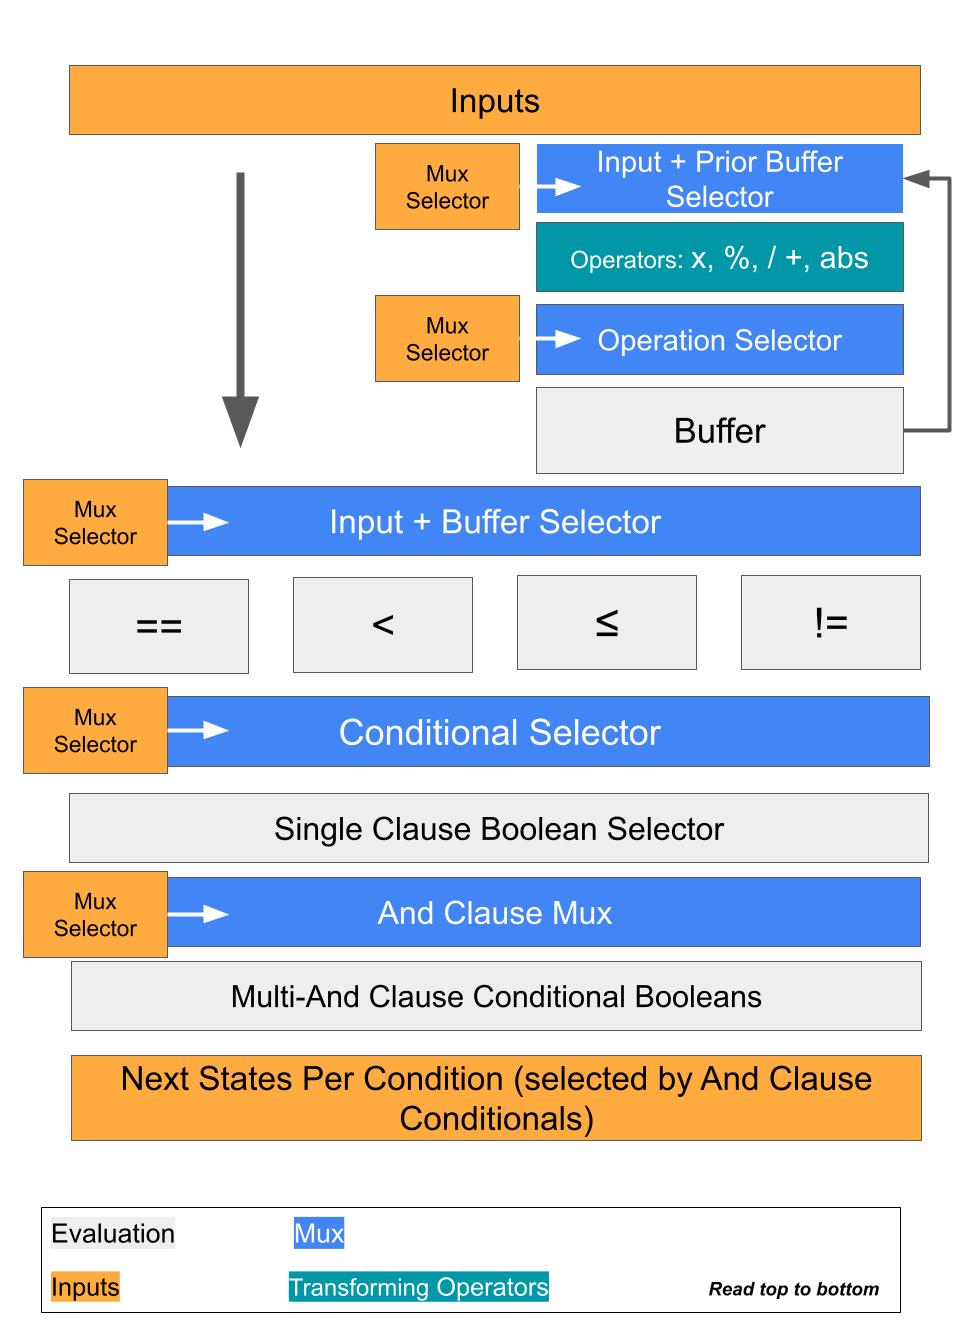
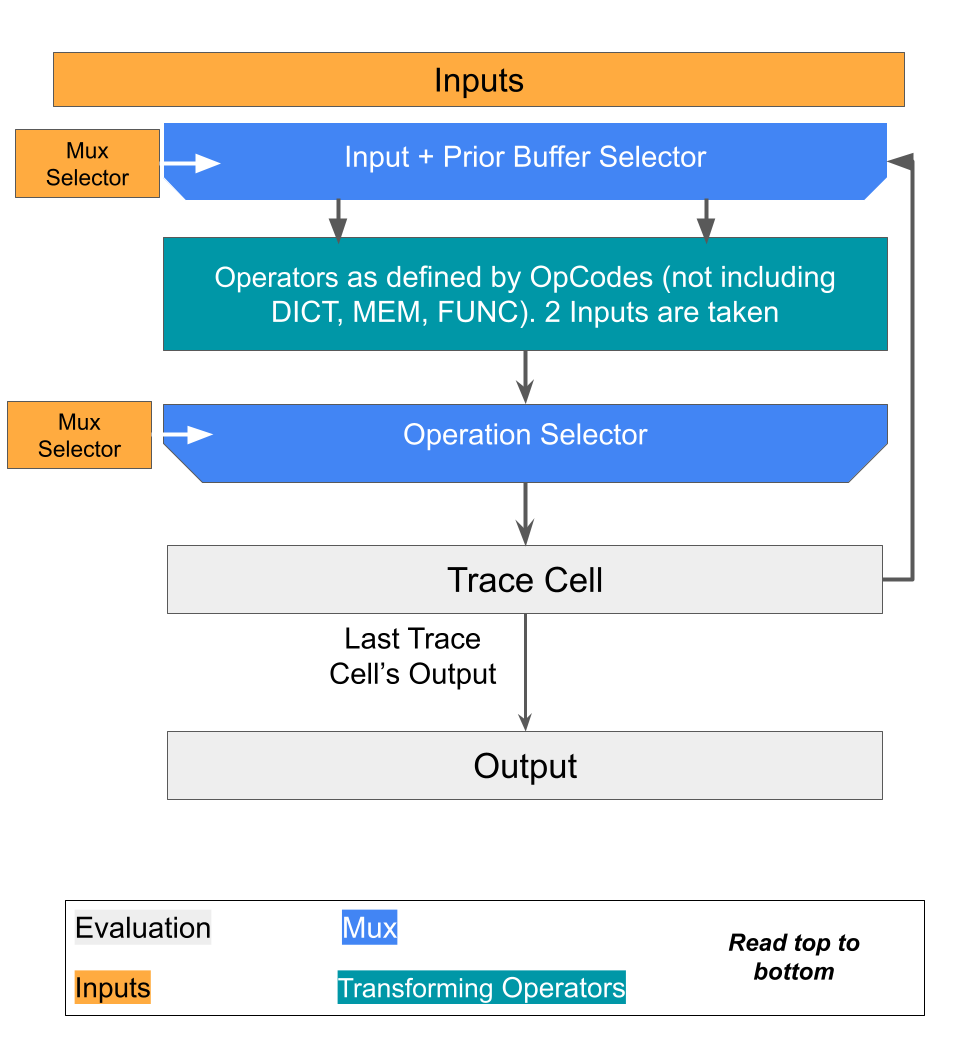
readme

diff --git a/shoshin/circom/README.md b/shoshin/circom/README.md
@@ -12,69 +12,33 @@ We need our Circom to verify that an FD emulator ran correctly. We do this by sp
 
 ### The specifics
 
-Below we outline the inputs to the `FD Emulator` circuit.
+Below we outline the inputs to the `FD Emulator` circuit. The outputs can be broken down into 2 categories: `inputs` and `trace` selectors. We can think of traces as the circuit equivalent of trace cells in Cairo. Essentially, they are write once values that store intermediary computations. The output of the circuit is the last trace cell's output. Because we are working with circuits, we have a **constant** number of trace cells and inputs.
+
+Unused inputs can be set to 0. Unused trace cells should have their `type` (OpCode) set to 0 which signifies that the output should be the first input. The inputs to the unused trace cells should be the output of the prior trace cell.
+Inputs to trace cells are based off of indexing. Setting an input selector to be in the range of [0, NUMB_INPUTS) signifies that the trace cell's input is selecting from the inputs to the circuit. Setting a trace cell's input selector to index i in [NUMB_INPUTS, NUMB_INPUTS + NUMB_TRACE_CELLS) signifies setting the input selector to the output of trace cell i minus NUMB_INPUTS.
+
+> Note that trace cells can only use outputs of trace cells with smaller indices. I.e. trace cell 10 can only use the outputs from trace cells 0 to 9.
+
+So, for this example, we have 8 inputs and 5 trace cells.
 
 ```typescript
 {
-  /**
-   * The value of the next state associated with each conditional and the default
-   * The first NumberOfConditional values are associated with conditionals. The last one is a default
-   */
-  next_state: [Number of Conditionals + 1], // length of Number of Conditionals + 1
-  /**
-  * The input to the circuit
-  */
-  inputs: [Input Size].
-
-
-  /**
-   * Select how to `and` the conditionals. Essentially, every single clause conditional can be
-   * transformed into a multi clause conditional by selecting which get `anded` together. The selection
-   * index ranges from [0, Number of Conditional + 2) where setting
-   * the selection to NumberOfConditionals is hardwired to `true` and NumberOfConditionals+1 is hardwired to `false`
-   *
-   * The and conditionals are the ones that are finally associated with the output `next_state`
-   */
-  and_selectors: [Number of Conditionals][Max Number of And Clauses],
-
-	/**
-   * Selects which conditional to use for each conditional:
-   * [0, 0] (0) represent a == b
-   * [1, 0] (1) represents a < b
-   * [0, 1] (2) represents a <= b
-   * [1, 1] (3) represents a != b
-   */
-  conditional_mux_sel: [Number of Conditionals][2],
-
-  /**
-   * for each conditional, a ?= b, select `a` and `b`. Selection values range
-   * from Number of Conditionals + Number of Buffers, where i in [0, Number of Conditionals) selects the ith input
-   * and i in [Number of Conditionals, Number of Conditionals + Number of Buffers)
-   * selects the i - Number of Conditionals buffer.
-   */
-  conditional_inputs_mux_sel[Number of Conditionals][2],
-
-  /**
-   * Each buffer can operate on at most 3 elements. This selects the inputs for each buffer.
-   * For buffer i in [0, Buffer Size), the selector takes Input Size + i possible values.
-   * The first Input Size represent selecting from an input.
-   * For j in [Input Size, Input Size + i),
-   * j represents selecting the output of buffer `j - Input Size`
-   */
-  buffer_mux_sel: [Buffer Size][3],
-
-  /**
-  * Each buffer can take input, a, b, and c.
-  *
-  * The different types associated with the buffers are
-  *
-  * [0, 0] => a * b + c
-  * [1, 0] => |a|
-  * [0, 1] => a \ b (integer division)
-  * [1, 1] => a % b
-  */
-  buffer_type_sel: [Buffer Size][2],
-
+  inputs: [-10, 20, 30, 40, 50, 60, 0, 0],
+  trace_inp_selectors: [
+    [0, 1],
+    [2, 0],
+    [8, 9],
+    [10, 0],
+    [11, 0],
+    [12, 0],
+  ],
+  trace_type_selectors: [
+    OpCodes.ABS,
+    OpCodes.DIV,
+    OpCodes.ADD,
+    0,
+    0,
+  ],
 }
 ```
 
@@ -83,129 +47,6 @@ Below we outline the inputs to the `FD Emulator` circuit.
 The following block diagram also gives a high level overview of how the circuit works
 ![imgs/FDBlockDiagram.png](imgs/FDBlockDiagram.png)
 
-### An example of a compiled FD
+### From Directed Acyclic Graph (DAG) Programs to Circom
 
-Say our mental space can be from the following enum,
-
-```
-enum MentalState {
-  MS_IDLE=0,
-  MS_ATTACK=1,
-}
-```
-
-an our intents can be from
-
-```
-enum Intents {
-  INT_NULL=0,
-  INT_ATTACK=1,
-}
-```
-
-and our transition functions are very basic.
-
-For the next mental state we have,
-
-```
-if (stamina >= STAMINA_COST_ATTACK * 2 + 10) return MS_ATTACK;
-else return MS_IDLE;
-```
-
-and our next intent we have
-
-```
-if (current_state == MS_ATTACK) return INT_ATTACK;
-else return INT_NULL;
-```
-
-Now we step through what the Circom input would look like. First, note that we have a "wrapper" Circom module which instantiates the FD Emulator. This will be in a future PR. This wrapper module will ensure that global constants, such as `STAMINA_COST_ATTACK`, mental spaces, and public inputs are passed into the inputs of the FD Emulator properly.
-
-Say that the maximum number of "anded clauses" is 2 and our buffer size is 1. So then, we would have the following FD Emulator Inputs for the next mental state
-
-```typescript
-{
-  next_state: [MS_ATTACK, MS_IDLE],
-
-  inputs: [curr_state, stamina, 2, 10, STAMINA_COST_ATTACK,],
-
-  // We have 1 conditional, then the index following the number of conditionals (1) is true by default
-  // I.e. we are choosing to do: `<conditional 0 output> && true`
-  and_selectors: [[0, 1]],
-
-  conditional_mux_sel: [[0, 1]], // Select a <= b
-
-  conditional_inputs_mux_sel[[5, 1]], // Select <Buffer 1 out> <= stamina
-
-  buffer_type_sel: [[0, 0]], // Quadratic constraint buffer is selected to give use a * b + c
-
-  buffer_mux_sel: [[4, 2, 3]], // Buffer is now STAMINA_COST_ATTACK * 2 + 10
-}
-```
-
-The next intent inputs are similar:
-
-```typescript
-{
-  next_state: [INT_ATTACK, INT_NULL],
-
-  inputs: [curr_state, stamina, MS_ATTACK, 0, STAMINA_COST_ATTACK,], // The 0 is just a dummy value
-
-  // We have 1 conditional, then the index following the number of conditionals (1) is true by default
-  // I.e. we are choosing to do: `<conditional 0 output> && true`
-  and_selectors: [[0, 1]],
-
-  conditional_mux_sel: [[0, 0]], // Select a == b
-
-  conditional_inputs_mux_sel[[0, 2]], // Select curr_state == MS_ATTACK
-
-  buffer_type_sel: [[0, 0]], // The buffer is unused so we just need some valid selection
-
-  buffer_mux_sel: [[0, 0, 0]], // The buffer is unused so we just need some valid selection
-}
-```
-
-#### A Slightly More Complex FD with 2-recursion in the Buffer
-
-Say for the next mental state we have,
-
-```
-if (stamina >= abs(STAMINA_COST_ATTACK * 2 - 10)) return MS_ATTACK;
-else if (chaos_level > stamina / CHAOS_TO_STAMINA_SCALING && current_state == MS_ATTACK) return MS_ATTACK;
-else return MS_IDLE;
-```
-
-Now, we need the buffer to be at least size 3, 2 conditionals, and at least 2 `and-ings` supported.
-
-```typescript
-{
-  next_state: [MS_ATTACK, MS_IDLE],
-
-	// 8 inputs
-  inputs: [curr_state, chaos_level, stamina, 2, -10, MS_ATTACK, CHAOS_TO_STAMINA_SCALING, STAMINA_COST_ATTACK,],
-
-  // We have 3 conditionals, then the index following the number of conditionals (3) is true by default
-  // I.e. we are choosing to do: `<conditional 0 output> && true` and `<conditional 1> && <conditional 2>
-  and_selectors: [[0, 3], [1, 2]],
-
-  conditional_mux_sel: [[0, 1], [1, 0], [0, 0]], // Select a >= 1, a > b, a == b
-
-  conditional_inputs_mux_sel[
-    [9, 2], // Select stamina <= <2nd buffer out>
-    [10, 1], // Select <3rd buffer out> < chaos_level
-    [0, 5], // Select curr_state == MS_ATTACK
-  ],
-
-  buffer_type_sel: [
-    [0, 0], // a * b + c
-    [1, 0], // abs(.)
-    [0, 1], // Integer division
-  ],
-
-  buffer_mux_sel: [
-    [6, 3, 4], // STAMINA_COST_ATTACK * 2 - 10,
-    [8, 0, 0], // abs(<buffer 0 output>)
-    [2, 6, 0], // stamina // CHAOS_TO_STAMINA_SCALING
-  ],
-}
-```
+To get from a DAG program, as used in Shoshin, to the Circom we will use a simple compiler. All the compiler has to do is define the order of the trace cells such that the computations in the DAG with the larger depth get computed in the trace **_before_** the more shallow nodes. This will be in Part 2 of this pull request.
